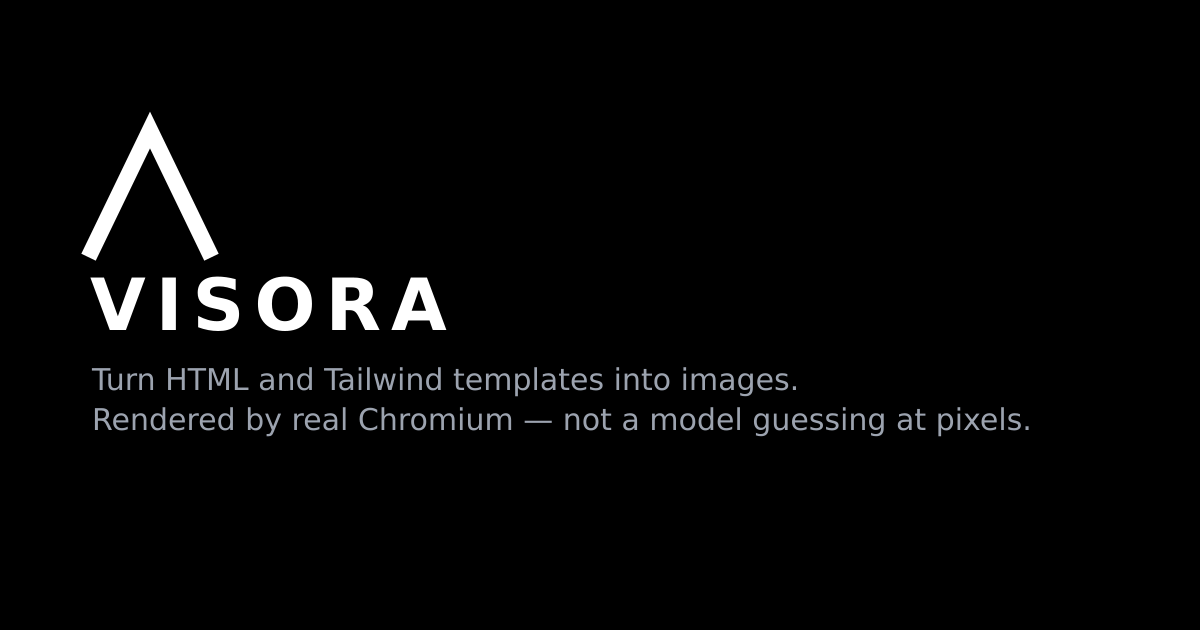
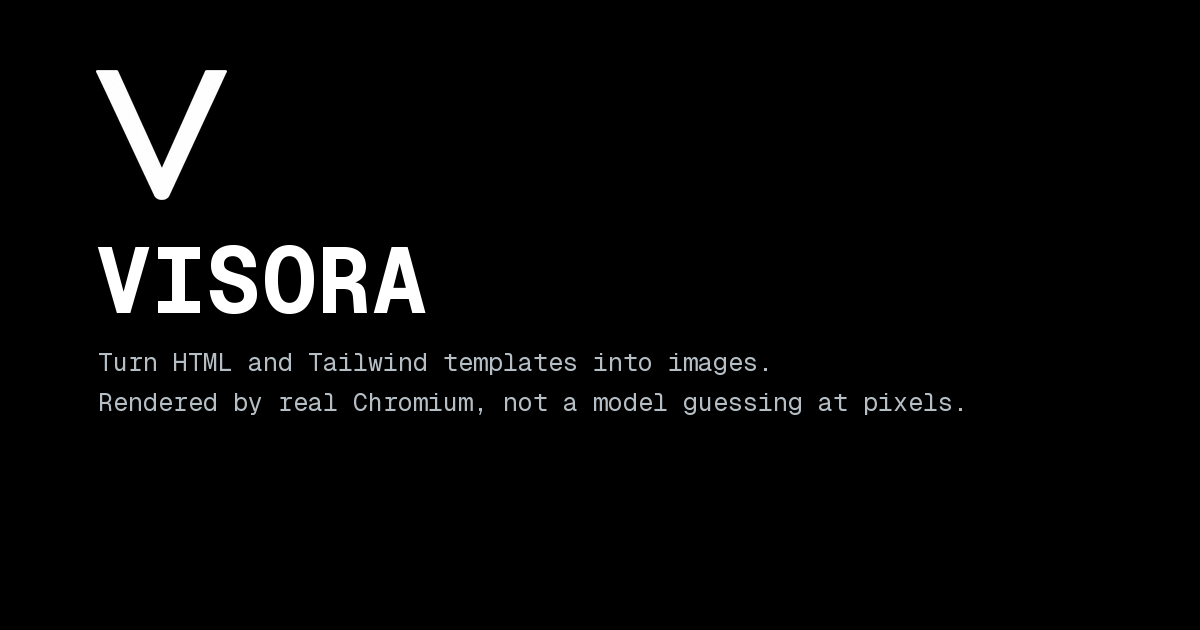
Remove GitHub links from footer, regenerate og-image with the new V mark
The og-image.png share preview still had the old chevron mark from
before the favicon swap. Rebuilt it with the actual V mark + VISORA
wordmark in Geist Mono, matching the 404 page's typography.

Changed region(s): [[0.0617, 0.0905, 0.8633, 0.6937]]

diff --git a/src/components/landing/Footer.tsx b/src/components/landing/Footer.tsx
@@ -1,4 +1,3 @@
-import { Github } from 'lucide-react';
 import { Link } from 'react-router-dom';
 import { PrimaryButton } from './Buttons';
 
@@ -81,23 +80,12 @@ export default function Footer() {
                 Get an API key
               </Link>
             </li>
-            <li>
-              <a
-                href="https://github.com/ULTRAAAA3000/visora"
-                target="_blank"
-                rel="noopener noreferrer"
-                className="flex items-center gap-1.5 text-[#D7E2EA]/70 hover:text-white transition-colors text-sm"
-              >
-                <Github className="w-3.5 h-3.5" />
-                GitHub
-              </a>
-            </li>
           </ul>
         </div>
       </div>
 
       {/* Bottom bar */}
-      <div className="max-w-6xl mx-auto flex flex-col sm:flex-row items-center justify-between gap-4 pt-8">
+      <div className="max-w-6xl mx-auto flex items-center justify-center pt-8">
         <div className="flex flex-wrap items-center justify-center gap-x-5 gap-y-2">
           <p className="text-white/30 text-xs">&copy; {new Date().getFullYear()} Visora. All rights reserved.</p>
           <Link to="/privacy" className="text-white/30 hover:text-white/60 transition-colors text-xs">
@@ -115,15 +103,6 @@ export default function Footer() {
             Powered by WYSB
           </a>
         </div>
-        <a
-          href="https://github.com/ULTRAAAA3000/visora"
-          target="_blank"
-          rel="noopener noreferrer"
-          className="flex items-center justify-center w-9 h-9 rounded-full liquid-glass hover:bg-white/10 transition-colors"
-          aria-label="Visora on GitHub"
-        >
-          <Github className="w-4 h-4 text-white/70" />
-        </a>
       </div>
     </footer>
   );
